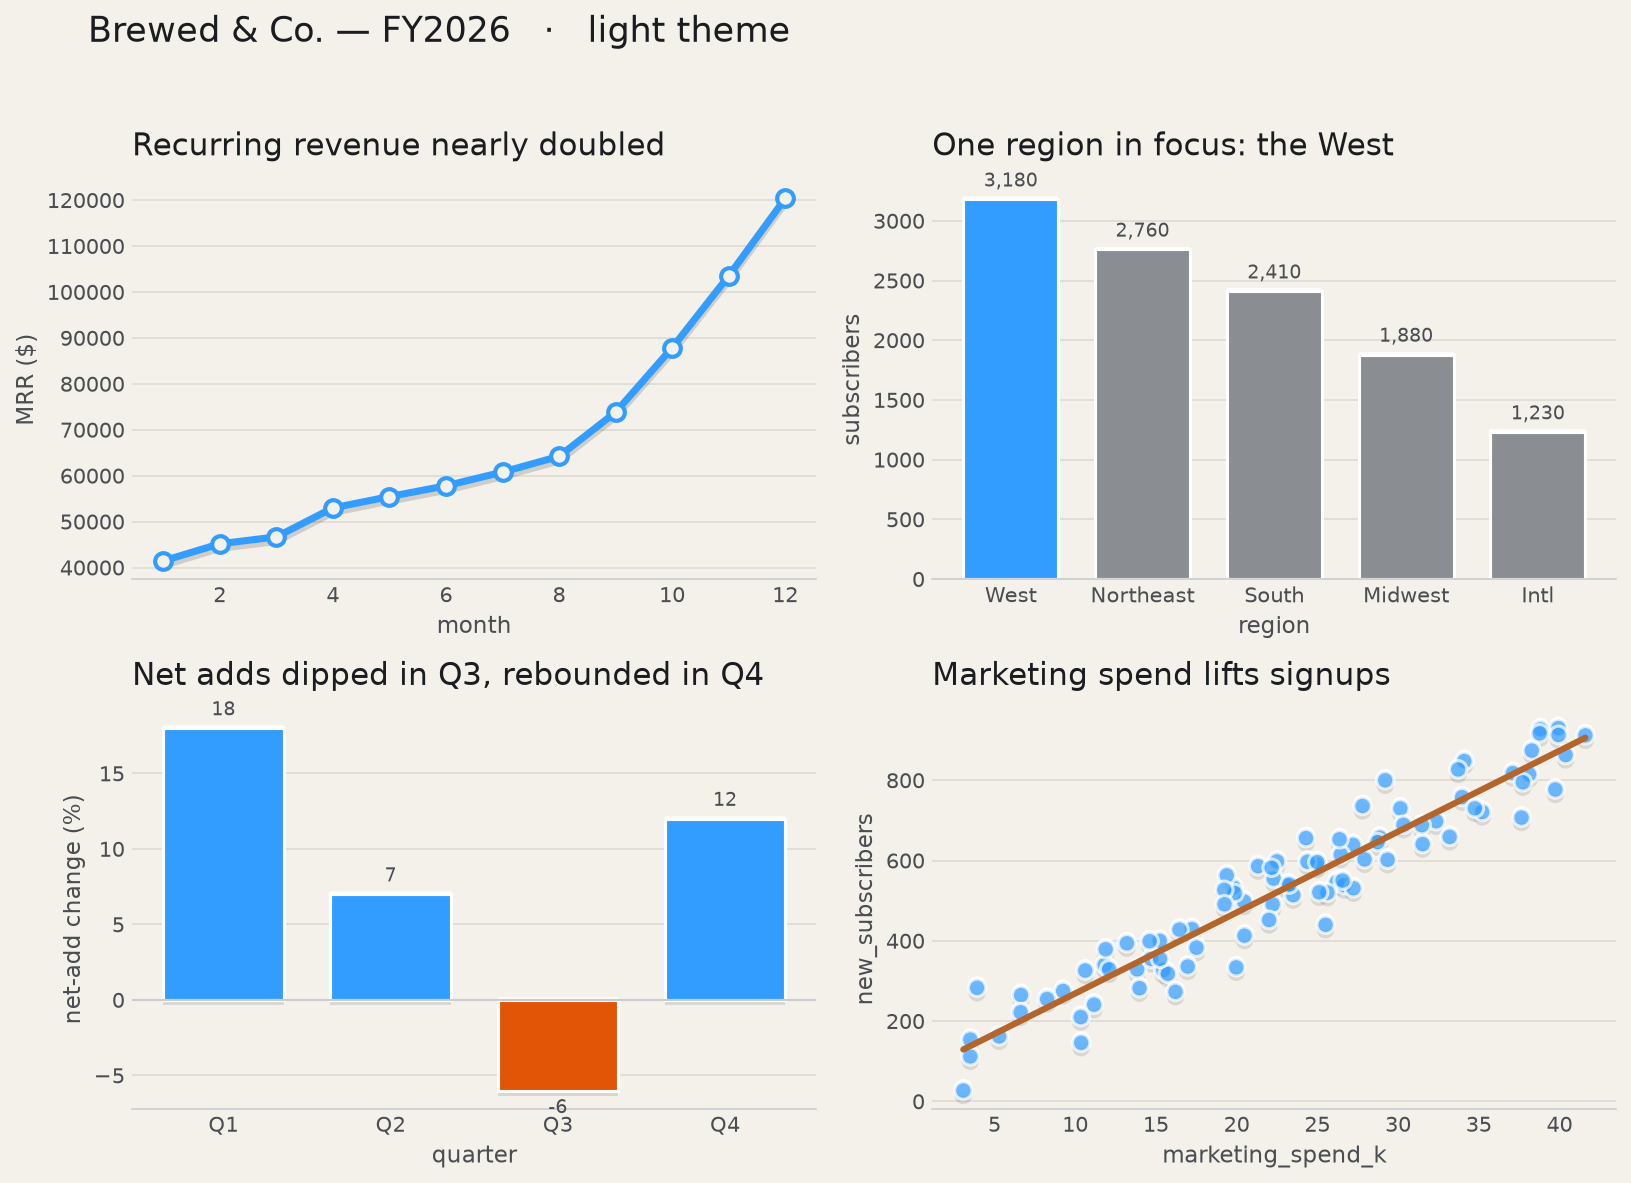
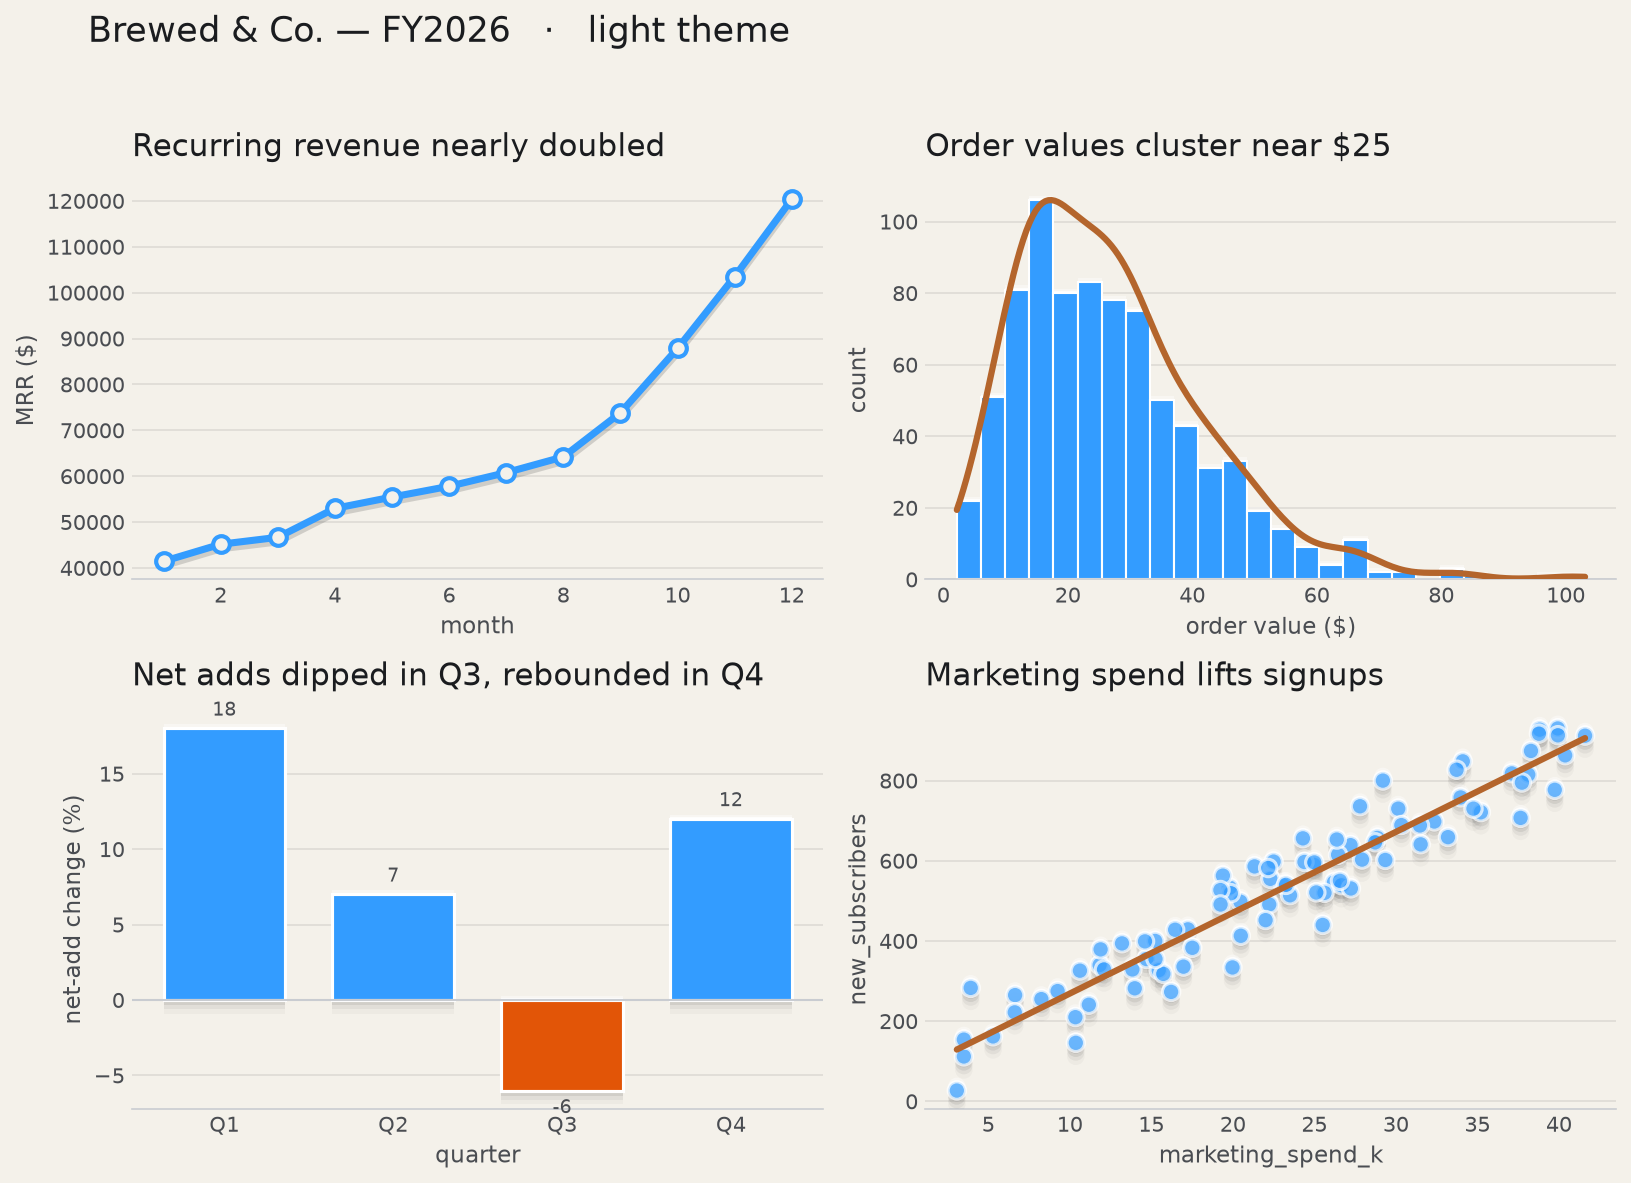
feat: hist_plot with a density (distribution) line
Add hist_plot — a histogram with a smooth numpy-computed density curve overlaid
(the distribution line from the Rosé Pine reference), with the emphasis-colored
line and neomorphic bar shadows. To stay under the 200-line MVP cap, drop the
two non-chart summary helpers and the redundant _require guard (pandas already
raises a clear KeyError). Feature hist_plot in the gallery; refresh previews.
Package: 197 lines, 17 tests passing.

diff --git a/src/data_vizual/core.py b/src/data_vizual/core.py
@@ -76,24 +76,14 @@ def load_csv(path, **read_csv_kwargs) -> pd.DataFrame:
         raise FileNotFoundError(f"No CSV file found at: {p}")
     return pd.read_csv(p, **read_csv_kwargs)
 
-def summary_statistics(df: pd.DataFrame) -> pd.DataFrame:
-    """describe() for the numeric columns."""
-    return df.describe()
-
-def missing_value_counts(df: pd.DataFrame) -> pd.Series:
-    """Missing values per column, highest first."""
-    return df.isna().sum().sort_values(ascending=False)
-
 def _shadow(scale: float = 1.0) -> list:
-    """Soft neomorphic extrude: a blurred dark bloom below and a light lift
-    above, faked by stacking offset shadow copies with decaying alpha."""
-    t = theme_tokens()
-    fx = [pe.SimplePatchShadow(offset=(0, -o * scale), shadow_rgbFace=t["sd"],
-                               alpha=t["sd_a"] * a)
-          for o, a in ((1.0, 1.0), (2.6, 0.7), (4.4, 0.45), (6.5, 0.25))]
-    fx += [pe.SimplePatchShadow(offset=(0, o * scale), shadow_rgbFace=t["sl"],
-                                alpha=t["sl_a"] * a)
-           for o, a in ((0.8, 1.0), (2.0, 0.5))]
+    """Soft neomorphic extrude: a blurred dark bloom below + a light lift above,
+    faked by stacking offset shadow copies with decaying alpha."""
+    t, sp = theme_tokens(), pe.SimplePatchShadow
+    fx = [sp(offset=(0, -o * scale), shadow_rgbFace=t["sd"], alpha=t["sd_a"] * a)
+          for o, a in ((1, 1), (2.6, .7), (4.4, .45), (6.5, .25))]
+    fx += [sp(offset=(0, o * scale), shadow_rgbFace=t["sl"], alpha=t["sl_a"] * a)
+           for o, a in ((.8, 1), (2, .5))]
     return fx + [pe.Normal()]
 
 def _axes(ax):
@@ -102,12 +92,6 @@ def _axes(ax):
         _, ax = plt.subplots()
         ax.set_prop_cycle(cycler(color=theme_tokens()["series"]))
     return ax
-
-def _require(df, cols):
-    """Raise a clear error naming any missing column."""
-    missing = [c for c in cols if c not in df.columns]
-    if missing:
-        raise KeyError(f"Column(s) {missing} not found. Have: {list(df.columns)}")
 
 def _style(ax, title, x=None, y=None):
     """Quiet chrome: transparent bg, one baseline, faint y-grid, direct title."""
@@ -132,7 +116,6 @@ def _style(ax, title, x=None, y=None):
 def line_plot(df, x, y, ax=None, title=None, color=None, label=None, marker="o"):
     """Line chart: a solid rounded line with a soft shadow and open markers."""
     ax = _axes(ax)
-    _require(df, [x, y])
     t = theme_tokens()
     c = color or t["accent"]
     (ln,) = ax.plot(df[x], df[y], color=c, label=label, linewidth=3.4,
@@ -150,7 +133,6 @@ def bar_plot(df, x, y, ax=None, title=None, color=None, by_sign=False,
     """Bars: blue (or blue/negative by sign, or one highlighted), softly raised
     with a shadow and direct value labels; no gradients."""
     ax = _axes(ax)
-    _require(df, [x, y])
     t = theme_tokens()
     if by_sign:
         colors = [t["accent"] if v >= 0 else t["negative"] for v in df[y]]
@@ -177,7 +159,6 @@ def scatter_plot(df, x, y, ax=None, title=None, color=None, trendline=False):
     """Scatter: translucent blue points with a soft shadow; optional burnt-orange
     linear trend line."""
     ax = _axes(ax)
-    _require(df, [x, y])
     t = theme_tokens()
     xs, ys = np.asarray(df[x], float), np.asarray(df[y], float)
     pts = ax.scatter(xs, ys, color=color or t["accent"], s=70, alpha=0.72,
@@ -189,3 +170,20 @@ def scatter_plot(df, x, y, ax=None, title=None, color=None, trendline=False):
         ax.plot(lx, m * lx + b, color=t["emphasis"], linewidth=3,
                 solid_capstyle="round", zorder=4)
     return _style(ax, title, x, y)
+
+def hist_plot(df, column, bins=20, ax=None, title=None, color=None):
+    """Histogram with a smooth density curve (the distribution line) overlaid."""
+    ax = _axes(ax)
+    t = theme_tokens()
+    v = np.asarray(df[column], float)
+    v = v[~np.isnan(v)]
+    counts, _, patches = ax.hist(v, bins=bins, color=color or t["accent"],
+                                 edgecolor=t["outline"], linewidth=1)
+    for p in patches:
+        p.set_path_effects(_shadow())
+    g = np.linspace(v.min(), v.max(), 200)
+    h = 1.06 * v.std() * len(v) ** -0.2 or 1.0           # Silverman bandwidth
+    d = np.exp(-((g[:, None] - v) / h) ** 2 / 2).sum(1) / (len(v) * h * 2.5066)
+    ax.plot(g, d * (counts.max() / (d.max() or 1)), color=t["emphasis"],
+            linewidth=3, solid_capstyle="round", zorder=4)
+    return _style(ax, title, column, "count")

diff --git a/tests/test_core.py b/tests/test_core.py
@@ -47,16 +47,6 @@ def test_load_csv_missing_file_raises():
         dv.load_csv("does/not/exist.csv")
 
 
-def test_summary_statistics(df):
-    assert dv.summary_statistics(df).loc["count", "revenue"] == 3
-
-
-def test_missing_value_counts(df):
-    missing = dv.missing_value_counts(df)
-    assert missing.iloc[0] == 1
-    assert missing["revenue"] == 1
-
-
 # --- theme -----------------------------------------------------------------
 
 
@@ -130,6 +120,14 @@ def test_scatter_plot_returns_axes(df):
 def test_scatter_trendline_adds_line(df):
     ax = dv.scatter_plot(df, x="month", y="revenue", trendline=True)
     assert len(ax.lines) == 1
+
+
+def test_hist_plot_has_bars_and_density_line():
+    import numpy as np
+    d = pd.DataFrame({"v": np.random.default_rng(0).normal(0, 1, 500)})
+    ax = dv.hist_plot(d, column="v", bins=20)
+    assert len(ax.patches) == 20        # histogram bars
+    assert len(ax.lines) == 1           # overlaid density curve
 
 
 def test_title_is_left_aligned(df):

diff --git a/examples/gallery.py b/examples/gallery.py
@@ -39,13 +39,14 @@ def make_data():
         "marketing_spend_k": spend,
         "new_subscribers": (spend * 21 + rng.normal(0, 55, 90) + 40).round(),
     })
-    return mrr, regions, qoq, signups
+    orders = pd.DataFrame({"order_value": rng.gamma(3.0, 9.0, 800)})
+    return mrr, regions, qoq, signups, orders
 
 
 def build(mode: str) -> plt.Figure:
     dv.set_theme(mode)
     t = dv.theme_tokens(mode)
-    mrr, regions, qoq, signups = make_data()
+    mrr, regions, qoq, signups, orders = make_data()
 
     fig, axes = plt.subplots(2, 2, figsize=(11, 8))
     fig.set_facecolor(t["page"])
@@ -57,8 +58,9 @@ def build(mode: str) -> plt.Figure:
                  title="Recurring revenue nearly doubled")
     axes[0, 0].set_ylabel("MRR ($)")
 
-    dv.bar_plot(regions, x="region", y="subscribers", ax=axes[0, 1],
-                highlight="West", title="One region in focus: the West")
+    h = dv.hist_plot(orders, column="order_value", bins=26, ax=axes[0, 1],
+                     title="Order values cluster near $25")
+    h.set_xlabel("order value ($)")
 
     dv.bar_plot(qoq, x="quarter", y="net_add_change", ax=axes[1, 0],
                 by_sign=True, title="Net adds dipped in Q3, rebounded in Q4")

diff --git a/src/data_vizual/__init__.py b/src/data_vizual/__init__.py
@@ -1,10 +1,8 @@
 """data_vizual: playful, softly dimensional pandas + matplotlib charts."""
 
-from .core import (available_themes, bar_plot, line_plot, load_csv,
-                   missing_value_counts, scatter_plot, set_theme,
-                   summary_statistics, theme_tokens)
+from .core import (available_themes, bar_plot, hist_plot, line_plot, load_csv,
+                   scatter_plot, set_theme, theme_tokens)
 
-__version__ = "0.4.0"
+__version__ = "0.5.0"
 __all__ = ["set_theme", "available_themes", "theme_tokens", "load_csv",
-           "summary_statistics", "missing_value_counts", "line_plot",
-           "bar_plot", "scatter_plot"]
+           "line_plot", "bar_plot", "hist_plot", "scatter_plot"]

diff --git a/README.md b/README.md
@@ -42,11 +42,10 @@ import data_vizual as dv
 dv.set_theme("light")        # pick the theme once ("light" or "dark")
 
 df = dv.load_csv("data/sales.csv")
-dv.summary_statistics(df)    # count / mean / std / min / quartiles / max
-dv.missing_value_counts(df)  # missing values per column (highest first)
 
 # Each plot returns a matplotlib Axes you can keep customizing.
 dv.line_plot(df, x="month", y="revenue", title="Revenue nearly doubled")
+dv.hist_plot(df, column="order_value")                      # bars + density line
 dv.bar_plot(df, x="quarter", y="growth", by_sign=True)      # blue / negative
 dv.bar_plot(df, x="region", y="sales", highlight="West")    # one bar in focus
 dv.scatter_plot(df, x="ad_spend", y="signups", trendline=True)
@@ -58,7 +57,9 @@ The look is **playful, editorial, and softly dimensional**: blue carries most
 of the visual weight, **burnt orange is reserved for emphasis**, marks have a
 soft theme-aware drop-shadow (depth on the data, not cards around it), chart
 backgrounds are transparent and unframed, gridlines are thin and low-opacity,
-and axes stay quiet. Two themes ship: **`light`** and **`dark`**.
+and axes stay quiet. Two themes ship: **`light`** (blue-led) and **`dark`**
+(the [Rosé Pine Moon](https://rosepinetheme.com) palette — pine, gold, love,
+foam, iris on a navy base).
 
 **Color tokens** (read any with `dv.theme_tokens()`):
 
@@ -94,9 +95,8 @@ labels.
 | --- | --- |
 | `set_theme(mode)` / `theme_tokens()` / `available_themes()` | Apply and read the theme tokens. |
 | `load_csv(path, **kwargs)` | Read a CSV into a DataFrame (clear error if missing). |
-| `summary_statistics(df)` | Descriptive stats for numeric columns. |
-| `missing_value_counts(df)` | Missing values per column, sorted descending. |
 | `line_plot(df, x, y, ...)` | Line + open markers with a soft shadow. |
+| `hist_plot(df, column, bins=20)` | Histogram with a smooth density (distribution) line overlaid. |
 | `bar_plot(df, x, y, ...)` | Bars with soft depth + value labels; `by_sign`, `highlight`. |
 | `scatter_plot(df, x, y, trendline=False)` | Translucent points; optional burnt-orange trend line. |
 